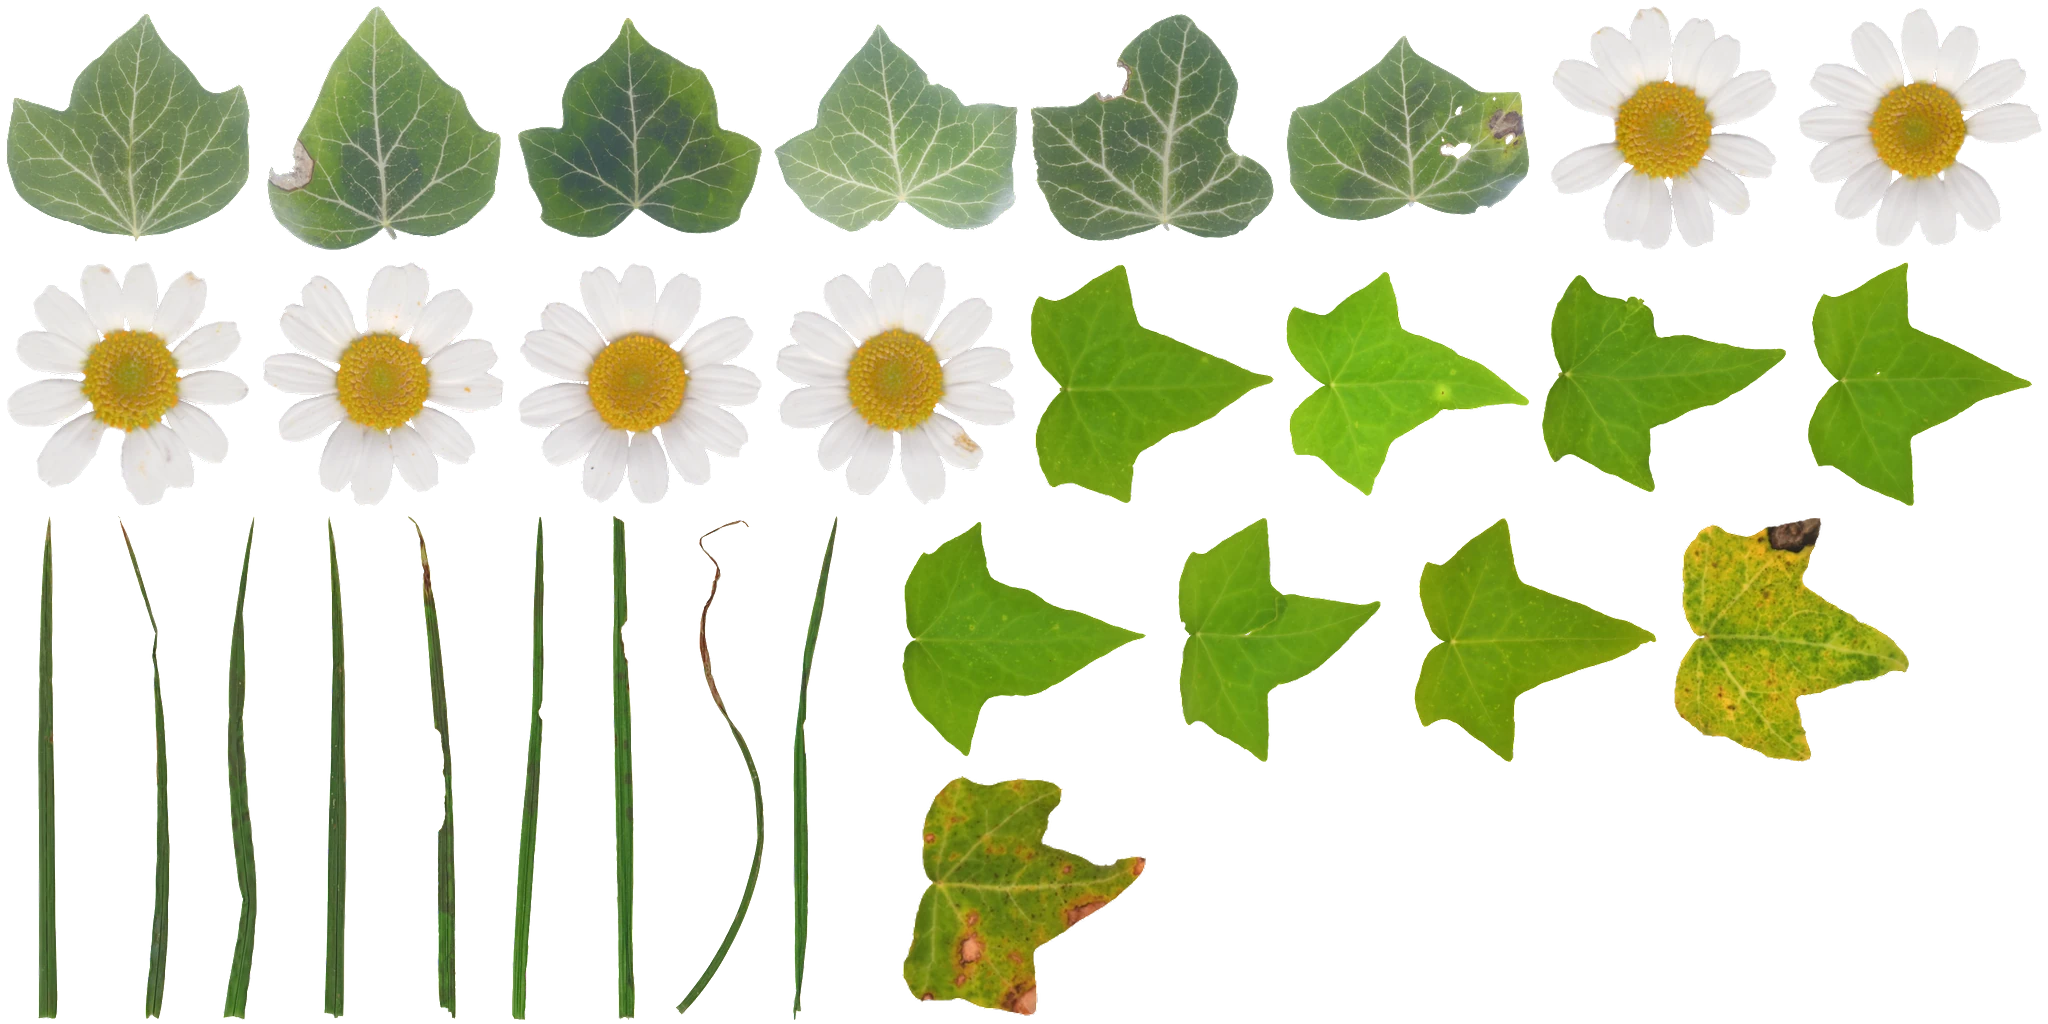
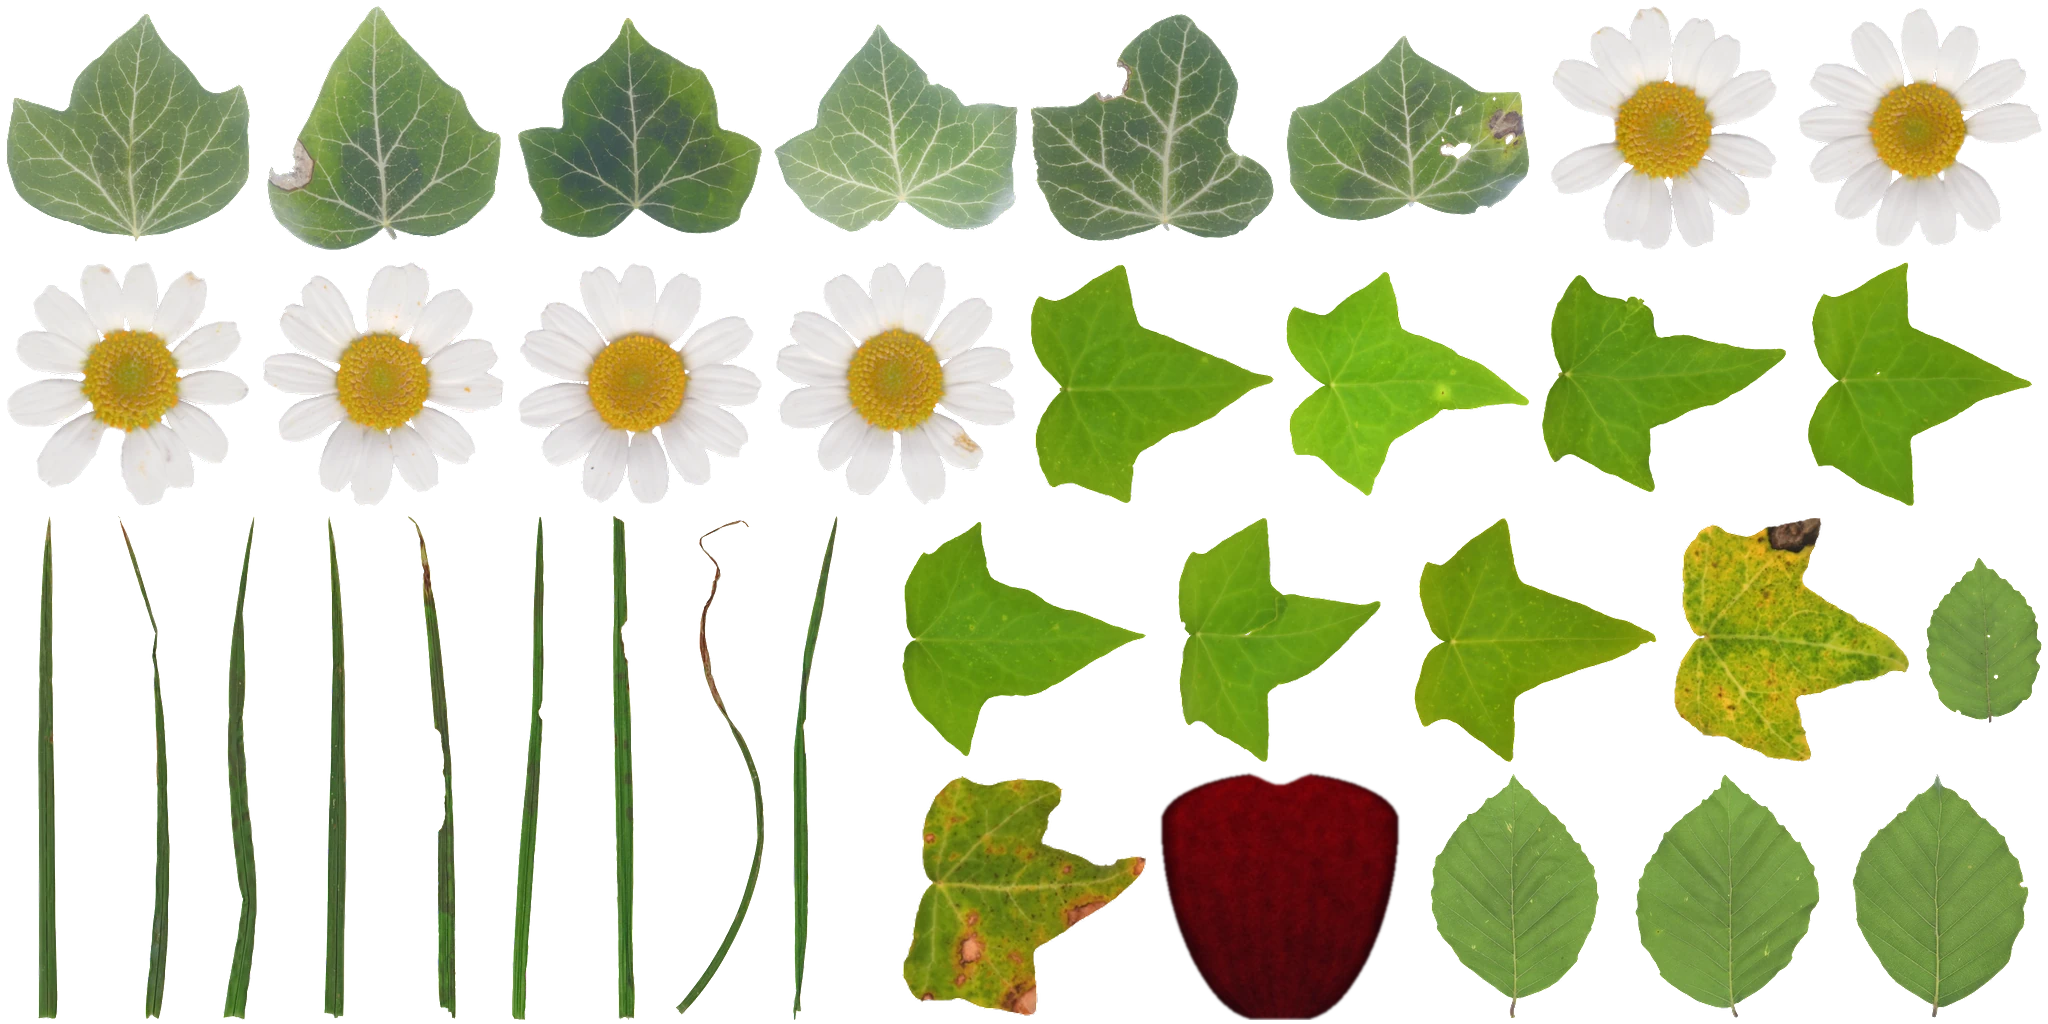
Studio: dark red climbing roses, thicker ivy, green vines through the bougainvillea
Rambling roses fan up the three walls without windows, their blooms built of
cupped dark red petals in rings, in clusters among serrated rose leaves.
The ivy is fuller and rougher. Green vines climb the window wall with the
bougainvillea and fringe the tops of the windows. Nothing grows across the
red door or the glass.

Claude-Session: https://claude.ai/code/session_019gjizY6toAK9gkRDgG1RH9

Changed region(s): [[0.5625, 0.75, 1.0, 1.0], [0.9375, 0.5625, 1.0, 0.7188]]

diff --git a/src/studio.js b/src/studio.js
@@ -1495,15 +1495,17 @@ function buildGlass() {
 // daisies growing in the joints of the floor, along the foot of the walls
 // and round the pool, after his garden references. Every leaf, blade and
 // flower is a photographed cut-out (res/studio/plants.webp, packed from
-// ambientCG's LeafSet017 ivy, LeafSet029, Foliage001 and FlowerSet001, CC0).
+// ambientCG's LeafSet017 ivy, LeafSet029, LeafSet024, Foliage001 and
+// FlowerSet001, CC0). Climbing roses, dark red, ramble over the walls
+// without windows: each bloom is built of cupped petals in rings.
 // ------------------------------------------------------------------
 
 // where each cut-out sits in plants.webp ([u0, v0, u1, v1], v down)
-const PLANT_UV = {ivy: [[0.00293, 0.0127, 0.12207, 0.23633], [0.13037, 0.00586, 0.24463, 0.24414], [0.25293, 0.0166, 0.37207, 0.23242], [0.37793, 0.02344, 0.49707, 0.22656], [0.50293, 0.01367, 0.62207, 0.23535], [0.62793, 0.03418, 0.74707, 0.21582]], blade: [[0.01855, 0.50391, 0.02832, 0.99512], [0.05762, 0.50391, 0.08301, 0.99512], [0.10889, 0.50391, 0.12549, 0.99609], [0.1582, 0.50391, 0.16943, 0.99512], [0.19922, 0.50391, 0.22266, 0.99512], [0.25, 0.50391, 0.26562, 0.99609], [0.29932, 0.50391, 0.31006, 0.99609], [0.33008, 0.50781, 0.37305, 0.99121], [0.38721, 0.50391, 0.40918, 0.99609]], daisy: [[0.75684, 0.00586, 0.86768, 0.24414], [0.87793, 0.00781, 0.99707, 0.24121], [0.00342, 0.25586, 0.12158, 0.49414], [0.12842, 0.25586, 0.24609, 0.49414], [0.25293, 0.25684, 0.37207, 0.49219], [0.37891, 0.25586, 0.49609, 0.49316]], weed: [[0.50293, 0.25781, 0.62207, 0.49121], [0.62793, 0.26562, 0.74707, 0.48438], [0.75293, 0.26855, 0.87207, 0.48047], [0.88281, 0.25586, 0.99219, 0.49414], [0.44043, 0.50977, 0.55957, 0.73926], [0.5752, 0.50586, 0.67432, 0.74414], [0.69043, 0.50586, 0.80908, 0.74414], [0.81738, 0.50586, 0.93213, 0.74414], [0.44043, 0.75781, 0.55957, 0.99219]]};
+const PLANT_UV = {ivy: [[0.00293, 0.0127, 0.12207, 0.23633], [0.13037, 0.00586, 0.24463, 0.24414], [0.25293, 0.0166, 0.37207, 0.23242], [0.37793, 0.02344, 0.49707, 0.22656], [0.50293, 0.01367, 0.62207, 0.23535], [0.62793, 0.03418, 0.74707, 0.21582]], blade: [[0.01855, 0.50391, 0.02832, 0.99512], [0.05762, 0.50391, 0.08301, 0.99512], [0.10889, 0.50391, 0.12549, 0.99609], [0.1582, 0.50391, 0.16943, 0.99512], [0.19922, 0.50391, 0.22266, 0.99512], [0.25, 0.50391, 0.26562, 0.99609], [0.29932, 0.50391, 0.31006, 0.99609], [0.33008, 0.50781, 0.37305, 0.99121], [0.38721, 0.50391, 0.40918, 0.99609]], daisy: [[0.75684, 0.00586, 0.86768, 0.24414], [0.87793, 0.00781, 0.99707, 0.24121], [0.00342, 0.25586, 0.12158, 0.49414], [0.12842, 0.25586, 0.24609, 0.49414], [0.25293, 0.25684, 0.37207, 0.49219], [0.37891, 0.25586, 0.49609, 0.49316]], weed: [[0.50293, 0.25781, 0.62207, 0.49121], [0.62793, 0.26562, 0.74707, 0.48438], [0.75293, 0.26855, 0.87207, 0.48047], [0.88281, 0.25586, 0.99219, 0.49414], [0.44043, 0.50977, 0.55957, 0.73926], [0.5752, 0.50586, 0.67432, 0.74414], [0.69043, 0.50586, 0.80908, 0.74414], [0.81738, 0.50586, 0.93213, 0.74414], [0.44043, 0.75781, 0.55957, 0.99219]], rleaf: [[0.69824, 0.75586, 0.78076, 0.99414], [0.79834, 0.75586, 0.88867, 0.99414], [0.9043, 0.75586, 0.99072, 0.99414], [0.94043, 0.54395, 0.99707, 0.70605]], petal: [[0.56445, 0.75391, 0.68555, 0.99609]]};
 const JOINTS = [[0.248, 0.8613], [0.3438, 0.9785], [0.4492, 0.584], [0.5957, 0.3281], [0.5371, 0.918], [0.1699, 0.4062], [0.752, 0.6699], [0.5879, 0.2207], [0.3789, 0.8477], [0.2637, 0.2266], [0.6758, 0.7422], [0.6016, 0.0273], [0.5762, 0.502], [0.0469, 0.5078], [0.1406, 0.7773], [0.791, 0.7539], [0.6113, 0.5605], [0.9121, 0.6777], [0.6523, 0.1523], [0.2871, 0.3301], [0.2109, 0.832], [0.4297, 0.625], [0.168, 0.4434], [0.1348, 0.1211], [0.9668, 0.0859], [0.3164, 0.873], [0.1777, 0.7539], [0.0215, 0.3281], [0.6719, 0.334], [0.9844, 0.6172], [0.6523, 0.3828], [0.1152, 0.2988], [0.0176, 0.1328], [0.207, 0.0996], [0.6152, 0.9844], [0.0234, 0.0117], [0.0723, 0.6328], [0.2695, 0.7695], [0.2539, 0.9395], [0.502, 0.9941], [0.1504, 0.9961], [0.957, 0.8145], [0.5117, 0.123], [0.4062, 0.4941], [0.0547, 0.1387], [0.4375, 0.2949], [0.373, 0.2109], [0.1699, 0.3086], [0.5176, 0.6445], [0.4863, 0.3027], [0.877, 0.6602], [0.5977, 0.8887], [0.5488, 0.0098], [0.5156, 0.5332], [0.6973, 0.1094], [0.4707, 0.2051], [0.498, 0.7559], [0.0312, 0.7363], [0.2051, 0.4629], [0.541, 0.8379], [0.8398, 0.8965], [0.1426, 0.1855], [0.3711, 0.1172], [0.1328, 0.9082], [0.75, 0.9629], [0.2812, 0.0449], [0.6367, 0.4277], [0.2051, 0.9824], [0.7012, 0.9766], [0.0059, 0.9102], [0.7168, 0.3379], [0.1602, 0.584], [0.8594, 0.1973], [0.3516, 0.7227], [0.0918, 0.9727], [0.416, 0.3359], [0.6465, 0.9355], [0.3418, 0.627], [0.7578, 0.332], [0.0293, 0.6973], [0.9004, 0.957], [0.7012, 0.7617], [0.1855, 0.8652], [0.6914, 0.8184], [0.5684, 0.543], [0.6523, 0.8672], [0.5742, 0.7441], [0.2949, 0.4121], [0.2363, 0.6387], [0.25, 0.1953], [0.0352, 0.5918], [0.248, 0.293], [0.0762, 0.4863], [0.9785, 0.4922], [0.9004, 0.7305], [0.9277, 0.5527], [0.9395, 0.125], [0.3691, 0.8789], [0.4805, 0.0469], [0.5703, 0.4551], [0.4199, 0.2246], [0.0371, 0.625], [0.3281, 0.4941], [0.1152, 0.6094], [0.2793, 0.834], [0.5039, 0.166], [0.4609, 0.5312], [0.0645, 0.7715], [0.6035, 0.7227], [0.4746, 0.6348], [0.6777, 0.5684], [0.2773, 0.4512], [0.8008, 0.1191], [0.3945, 0.9297], [0.2109, 0.6855], [0.5977, 0.1875], [0.5195, 0.0742], [0.1309, 0.4609], [0.9531, 0.4277], [0.4785, 0.9648], [0.543, 0.3262], [0.9121, 0.041], [0.5059, 0.7188], [0.0098, 0.2969], [0.8438, 0.3789], [0.1504, 0.2637], [0.7969, 0.873], [0.8613, 0.9863], [0.834, 0.7461], [0.377, 0.6211], [0.791, 0.7227], [0.6758, 0.8457], [0.7832, 0.8066], [0.834, 0.5293], [0.1973, 0.6562], [0.8281, 0.9609], [0.5332, 0.7773], [0.9062, 0.8008], [0.3262, 0.0234], [0.8984, 0.7676]];
 // JOINTS: points in the joints between the flagstones (in one 2 m tile of
 // the floor's texture, 0..1), found from its height map and colour
-const PT = { IVY: 0, BLADE: 1, DAISY: 2, WEED: 3 };
+const PT = { IVY: 0, BLADE: 1, DAISY: 2, WEED: 3, ROSE: 4, RLEAF: 5 };
 const ATLAS_ASPECT = 2.0;
 
 function buildGreenery() {
@@ -1536,6 +1538,9 @@ function buildGreenery() {
 		for (let i = 0; i < S; i++) { const a = b0 + i * 2; g.idx.push(a, a + 1, a + 3, a, a + 3, a + 2); }
 	};
 
+	// where on the wall being dressed nothing may grow (a door, the glass)
+	let avoid = null;
+
 	// ---- ivy -------------------------------------------------------------
 	const IVY = [...PLANT_UV.ivy, ...PLANT_UV.ivy, ...PLANT_UV.weed.slice(0, 7)];
 	const UP = [0, 1, 0];
@@ -1556,7 +1561,7 @@ function buildGreenery() {
 	// now and then, thick with leaves; their reach falls off towards the
 	// patch's edges, so it reads as one growth rather than a box of leaves
 	const ivyPatch = (o, u, n, s0, width, height, density, drape, stopAt) => {
-		const stems = Math.max(3, Math.round(width * 3.4 * density));
+		const stems = Math.max(3, Math.round(width * 2.4 * density));
 		const stack = [];
 		for (let k = 0; k < stems; k++) {
 			const s = s0 + (rnd() - 0.5) * width;
@@ -1579,23 +1584,101 @@ function buildGreenery() {
 				const leaves = rnd() < 0.9 * density ? (rnd() < 0.5 ? 2 : 1) : 0;
 				for (let l = 0; l < leaves; l++) {
 					const out = 0.015 + rnd() * 0.11;
-					const at = madd(madd(madd(o, u, s + (rnd() - 0.5) * 0.2), UP, y + (rnd() - 0.5) * 0.12), n, out);
-					const size = (0.12 + 0.09 * rnd()) * (drape ? 1.05 - 0.3 * t : 1.2 - 0.4 * t);
+					const ls = s + (rnd() - 0.5) * 0.2, ly = y + (rnd() - 0.5) * 0.12;
+					if (avoid && avoid(ls, ly)) continue;
+					const at = madd(madd(madd(o, u, ls), UP, ly), n, out);
+					const size = (0.14 + 0.1 * rnd()) * (drape ? 1.05 - 0.3 * t : 1.2 - 0.4 * t);
 					ivyLeaf(at, n, UP, size, 0.45 + 0.55 * (out / 0.125) * (0.6 + 0.4 * rnd()));
 				}
 				if (gen < 2 && rnd() < 0.035) stack.push([s, y, ang + (rnd() < 0.5 ? -0.7 : 0.7), reach * (0.35 + 0.4 * rnd()) * (1 - t * 0.5), gen + 1]);
 			}
 		}
 	};
+	// ---- climbing roses ------------------------------------------------
+	// one dark red bloom at `at`, facing out along f: a tight bud of petals
+	// at its heart, opening rings round it, the outer petals curling back
+	const roseBloom = (at, f, size, open) => {
+		const r = PLANT_UV.petal[0];
+		const up = Math.abs(f[1]) > 0.9 ? [1, 0, 0] : [0, 1, 0];
+		const e1 = norm(cross(up, f)), e2 = cross(f, e1);
+		const rings = [[3, 0.42, 0.2], [5, 0.56, 0.6 * open + 0.2], [7, 0.7, 1.15 * open + 0.3]];
+		const a0 = rnd() * 2 * PI;
+		rings.forEach(([cnt, len, tilt], ri) => {
+			for (let k = 0; k < cnt; k++) {
+				const a = a0 + (k + ri * 0.5) * 2 * PI / cnt + (rnd() - 0.5) * 0.3;
+				const rd = madd(madd([0, 0, 0], e1, Math.cos(a)), e2, Math.sin(a));
+				// the petal rises from the heart, leaning out by its tilt
+				const tl = Math.min(1.45, tilt * (0.85 + 0.3 * rnd()));
+				const dir = norm(madd(madd([0, 0, 0], f, Math.cos(tl)), rd, Math.sin(tl)));
+				const L = size * len * (0.85 + 0.3 * rnd());
+				const side = norm(cross(dir, rd));
+				const w = L * 0.95 * (ri === 0 ? 0.7 : 1);
+				const base = madd(madd(at, rd, size * 0.06 * ri), f, -size * 0.05 * ri);
+				const nrm = norm(madd(madd([0, 0, 0], rd, -Math.cos(tl)), f, Math.sin(tl)));
+				// cupped in, the outer ones curling their lips back
+				card(base, madd([0, 0, 0], side, w / 2), madd([0, 0, 0], dir, L), r, 0.75 + 0.25 * rnd() - 0.12 * ri, PT.ROSE, norm(madd(nrm, f, 0.6)), rd, ri < 2 ? 0 : L * 0.3 * open);
+			}
+		});
+	};
+	const roseLeaf = (at, n, up, size, shade) => {
+		const r = pick(PLANT_UV.rleaf);
+		const ln = norm(madd(madd(n, up, rnd() * 0.8 - 0.1), cross(up, n), (rnd() - 0.5) * 0.9));
+		let ay = norm(madd(up, ln, -dot(up, ln)));
+		const th = (rnd() - 0.5) * 3.0, c = Math.cos(th), sn = Math.sin(th);
+		ay = norm(madd(madd([0, 0, 0], ay, c), cross(ln, ay), sn));
+		const ax = cross(ay, ln);
+		card(madd(at, ay, -size * 0.1), madd([0, 0, 0], ax, size * aspect(r) / 2), madd([0, 0, 0], ay, size), r, shade, PT.RLEAF, ln);
+	};
+	// a rambling rose on a wall: long canes fanning up and arching over,
+	// thick with leaves in fives, the blooms in clusters, most of them high
+	const rosePatch = (o, u, n, s0, width, height, blooms) => {
+		const canes = Math.max(3, Math.round(width * 2.2));
+		const at = (s, y, out) => madd(madd(madd(o, u, s), UP, y), n, out);
+		const roseLeaf0 = roseLeaf, roseBloom0 = roseBloom;
+		const roseLeaf1 = (p, ...a) => { if (!(avoid && avoid(dot(madd(p, o, -1), u), p[1]))) roseLeaf0(p, ...a); };
+		const roseBloom1 = (p, ...a) => { if (!(avoid && avoid(dot(madd(p, o, -1), u), p[1]))) roseBloom0(p, ...a); };
+		for (let k = 0; k < canes; k++) {
+			let s = s0 + (rnd() - 0.5) * width * 0.35, y = 0.05;
+			let ang = (rnd() - 0.5) * 1.4;
+			const reach = height * (0.6 + 0.4 * rnd());
+			const fan = (s - s0) / (width / 2 + 1e-3);
+			for (let step = 0; step < 200 && y < reach; step++) {
+				// fanning outwards and arching as they rise
+				ang += (rnd() - 0.5) * 0.3 + fan * 0.012 + (y > reach * 0.6 ? Math.sign(ang || 1) * 0.02 : 0);
+				ang = Math.max(-1.25, Math.min(1.25, ang));
+				s += Math.sin(ang) * 0.08; y += Math.cos(ang) * 0.08;
+				if (Math.abs(s - s0) > width * 0.6) break;
+				const t = y / reach;
+				for (let l = 0; l < (rnd() < 0.8 ? 2 : 1); l++) {
+					const out = 0.02 + rnd() * 0.12;
+					roseLeaf1(at(s + (rnd() - 0.5) * 0.16, y + (rnd() - 0.5) * 0.12, out), n, UP, 0.07 + rnd() * 0.05, 0.5 + 0.5 * rnd());
+				}
+				if (t > 0.18 && rnd() < blooms * (0.08 + 0.15 * t)) {
+					const nb = 1 + Math.floor(rnd() * 4);
+					for (let b = 0; b < nb; b++) {
+						const f = norm(madd(madd(n, UP, (rnd() - 0.4) * 0.8), cross(UP, n), (rnd() - 0.5) * 0.9));
+						roseBloom1(at(s + (rnd() - 0.5) * 0.18, y + (rnd() - 0.5) * 0.16, 0.08 + rnd() * 0.1), f, 0.11 + rnd() * 0.07, 0.45 + 0.55 * rnd());
+					}
+					// a few leaves round the cluster
+					for (let l = 0; l < 3; l++) roseLeaf1(at(s + (rnd() - 0.5) * 0.25, y + (rnd() - 0.5) * 0.2, 0.05 + rnd() * 0.08), n, UP, 0.07 + rnd() * 0.04, 0.6 + 0.4 * rnd());
+				}
+			}
+		}
+	};
+	const rose = (w, ...a) => rosePatch(w.o, w.u, w.n, ...a);
 	const NW = { o: [0, 0, 0], u: [1, 0, 0], n: [0, 0, 1] };          // the niche wall
 	const DW = { o: [0, 0, L], u: [1, 0, 0], n: [0, 0, -1] };         // the red door's wall
 	const GW = { o: [W, 0, 0], u: [0, 0, 1], n: [-1, 0, 0] };         // the wall shared with the gallery
 	const patch = (w, ...a) => ivyPatch(w.o, w.u, w.n, ...a);
 	// round the niche: thick on its left as in his photograph, lighter on its right
-	patch(NW, 4.25, 2.6, 6.6, 1.25);
-	patch(NW, 11.9, 3.0, 5.2, 1.0);
-	patch(NW, 1.0, 1.8, 3.2, 0.9);
-	patch(NW, 15.0, 1.8, 3.8, 0.9);
+	patch(NW, 4.1, 3.0, 7.0, 1.5);
+	patch(NW, 12.0, 3.4, 5.8, 1.3);
+	patch(NW, 1.0, 2.2, 4.2, 1.2);
+	patch(NW, 15.0, 2.0, 5.0, 1.2);
+	// and the roses scrambling through it, either side of the niche
+	rose(NW, 3.6, 3.2, 5.6, 1.1);
+	rose(NW, 12.6, 3.0, 4.8, 1.0);
+	rose(NW, 0.9, 1.6, 3.2, 0.8);
 	// spilling over the niche's cornice and down across the arch and the left pier
 	{
 		const zc = NICHE.face - 0.26, front = { o: [0, 0, L - zc + 0.03], u: [1, 0, 0], n: [0, 0, 1] };
@@ -1611,18 +1694,36 @@ function buildGreenery() {
 		}
 	}
 	// round the red door, and over its arch (never across it)
-	patch(DW, 5.4, 2.8, 5.6, 1.1);
-	patch(DW, 11.0, 3.2, 6.4, 1.1);
-	patch(DW, 1.2, 2.0, 3.0, 0.8);
-	patch(DW, 14.9, 2.0, 4.4, 0.9);
-	ivyPatch(DW.o, DW.u, DW.n, W / 2 + 0.3, 3.6, 1.6, 1.1, 5.2, (s) => (Math.abs(s - W / 2) < 1.25 ? 4.15 : 2.6));
+	avoid = (s, y) => Math.abs(s - W / 2) < DOOR.w / 2 + DOOR.frame + 0.12 && y < DOOR.top + DOOR.frame + 0.12;
+	patch(DW, 5.3, 3.2, 6.2, 1.4);
+	patch(DW, 11.0, 3.6, 7.0, 1.4);
+	patch(DW, 1.2, 2.4, 4.4, 1.2);
+	patch(DW, 14.9, 2.2, 5.4, 1.2);
+	ivyPatch(DW.o, DW.u, DW.n, W / 2 + 0.3, 3.8, 1.8, 1.3, 5.4, (s) => (Math.abs(s - W / 2) < 1.25 ? 4.15 : 2.4));
+	rose(DW, 5.6, 3.4, 5.2, 1.2);
+	rose(DW, 10.6, 3.6, 5.8, 1.2);
+	rose(DW, 14.6, 2.0, 4.0, 0.9);
+	avoid = null;
 	// along the gallery wall
-	patch(GW, 2.6, 3.6, 6.6, 1.1);
-	patch(GW, 9.2, 4.0, 4.6, 0.9);
-	patch(GW, 15.6, 4.6, 7.0, 1.2);
-	patch(GW, 20.9, 1.6, 3.0, 0.9);
-	// and low tufts of it at the feet of the bougainvillea on the window wall
-	for (const [k, c] of VINE.filter((v) => v[0] === 'wall')) { void k; ivyPatch([0, 0, 0], [0, 0, 1], [1, 0, 0], c, 1.2, 1.1, 0.8); }
+	patch(GW, 2.6, 4.0, 7.0, 1.4);
+	patch(GW, 9.2, 4.6, 5.4, 1.2);
+	patch(GW, 15.6, 5.0, 7.4, 1.5);
+	patch(GW, 20.9, 2.0, 4.0, 1.2);
+	rose(GW, 3.2, 3.6, 5.4, 1.1);
+	rose(GW, 8.6, 3.0, 4.2, 1.0);
+	rose(GW, 13.4, 3.2, 5.8, 1.1);
+	rose(GW, 18.6, 3.4, 5.0, 1.2);
+	// (off the glass)
+	avoid = (s, y) => WIN.c.some((c) => { const t = winTop(s - c); return t !== null && Math.abs(s - c) < WIN.hw + 0.06 && y > WIN.sill - 0.05 && y < t + 0.06; });
+	// green vines up the window wall, twined through the bougainvillea
+	// between the windows, and fringing the top of the windows' arches
+	for (const [k, c] of VINE.filter((v) => v[0] === 'wall')) {
+		void k;
+		const edge = c < 1 || c > L - 1;
+		ivyPatch([0, 0, 0], [0, 0, 1], [1, 0, 0], c, edge ? 1.0 : 1.7, H - 0.6, edge ? 0.9 : 1.1);
+	}
+	for (const c of WIN.c) ivyPatch([0, 0, 0], [0, 0, 1], [1, 0, 0], c, WIN.hw * 2.3, 1.6, 0.8, H - 0.6, (s) => winTop(s - c) !== null ? winTop(s - c) + 0.15 : H - 2.2);
+	avoid = null;
 
 	// ---- the ground: grass, weeds and daisies ---------------------------
 	g = ground;
@@ -2656,6 +2757,7 @@ module.exports = function (regl) {
 			float type = v_info.y;
 			vec3 base = tx.rgb * tx.rgb;
 			float gloss = 0.3, through = 1.8;
+			vec3 trC = vec3(0.9, 1.0, 0.5);
 			if (type < 0.5) {
 				// ivy: the photographed leaves deepened to an old ivy's dark green
 				float l = dot(base, vec3(0.3, 0.59, 0.11));
@@ -2667,14 +2769,21 @@ module.exports = function (regl) {
 				base *= mix(0.35, 1.0, smoothstep(0.0, 0.7, v_info.z));
 			} else if (type < 2.5) {
 				gloss = 0.15; through = 0.8;
-			} else {
+			} else if (type < 3.5) {
 				base *= vec3(0.62, 0.78, 0.5);
+			} else if (type < 4.5) {
+				// rose petals: dark red velvet, the sun glowing red through them
+				gloss = 0.22; through = 1.6; trC = vec3(1.0, 0.35, 0.35);
+			} else {
+				// the rose's own leaves: a deeper, bluer green than the ivy
+				base *= vec3(0.55, 0.72, 0.5);
+				gloss = 0.45; through = 1.0;
 			}
 			base *= v_info.x;
 			vec3 spec; float sv;
 			vec3 light = studioLight(v_pos, N, V, gloss, spec, sv);
 			float tr = max(dot(-N, STUDIO_SUN), 0.0) * sv;
-			vec3 col = base * light + base * vec3(0.9, 1.0, 0.5) * tr * through * (1.0 - night) + spec * 0.2 * gloss;
+			vec3 col = base * light + base * trC * tr * through * (1.0 - night) + spec * 0.2 * gloss;
 			col = studioAir(col, v_pos, v_eye);
 			gl_FragColor = vec4(sqrt(max(col, 0.0)), 1.0);
 		}`,

diff --git a/readme.md b/readme.md
@@ -27,7 +27,7 @@ Pushing to `master` builds the site and publishes it to Cloudflare Pages and Git
 - `src/painting.js` – the paintings (canvas weave, varnish, light pool) and their gilded frames.
 - `src/mesh.js` – the architecture's materials and light (marble, plaster, the floor).
 - `src/tour.js` – the cinematic tour; `src/fps.js` – free walking.
-- `src/studio.js` – the painter's studio (a leaded glass roof hung with bougainvillea, rough stone slab walls with arched windows on one side, bougainvillea climbing between them and ivy on the others, a flagstone floor with grass and weeds in its joints; the red Gothic door through to the piano room, and facing it an old stone niche with the nymph, res/nymph.bin, inside, and a weathered stone lily pool running from the niche back towards the door). Not joined to the gallery yet: open the site with `?studio` (add `&night` for night) to look round it; a tap turns day to night.
+- `src/studio.js` – the painter's studio (a leaded glass roof hung with bougainvillea, rough stone slab walls with arched windows on one side, bougainvillea and green vines climbing between them, ivy and dark red climbing roses on the others, a flagstone floor with grass and weeds in its joints; the red Gothic door through to the piano room, and facing it an old stone niche with the nymph, res/nymph.bin, inside, and a weathered stone lily pool running from the niche back towards the door). Not joined to the gallery yet: open the site with `?studio` (add `&night` for night) to look round it; a tap turns day to night.
 - `src/listview.js` – all paintings as a plain list (`#list`, and the fallback without 3D).
 - `source/` – source files that are not published (e.g. the Blender wall model).
 
@@ -47,7 +47,7 @@ The two statues are real 3D scans, slimmed down for the web and stored in `res/v
 - Gravel: Gravel030 from ambientCG (CC0), in `res/pond/gravel.jpg`.
 - Stone: "Coral Stone Wall" by Dimitrios Savva (the rough slab walls) and "Large Sandstone Blocks 01" by Rob Tuytel (the niche and the pool), both from Poly Haven (https://polyhaven.com, CC0), in `res/studio/` (colour, and the normal map with the hollows packed in its blue).
 - Floor: "Grassy Cobblestone" by Dario Barresi and Charlotte Baglioni, from Poly Haven (CC0), in `res/studio/floor_*`.
-- Plants: ivy leaves (LeafSet017), lobed leaves (LeafSet029), grass blades (Foliage001) and daisies (FlowerSet001) from ambientCG (https://ambientcg.com, CC0), cut out and packed into `res/studio/plants.webp`.
+- Plants: ivy leaves (LeafSet017), lobed leaves (LeafSet029), rose leaves (LeafSet024), grass blades (Foliage001) and daisies (FlowerSet001) from ambientCG (https://ambientcg.com, CC0), cut out and packed into `res/studio/plants.webp` with a dark red rose petal painted for it; each rose is built from those petals in rings.
 
 ## The street outside
 
